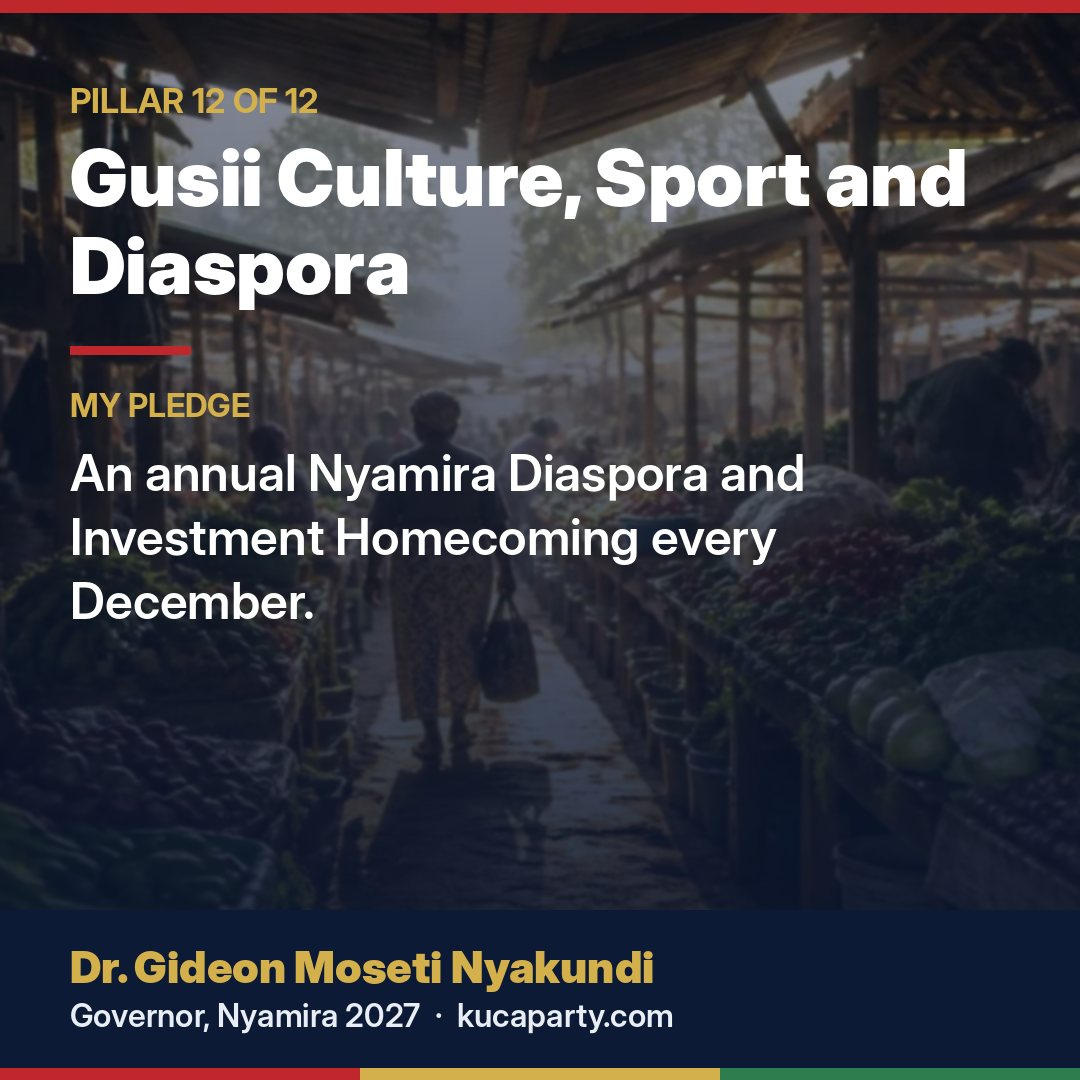
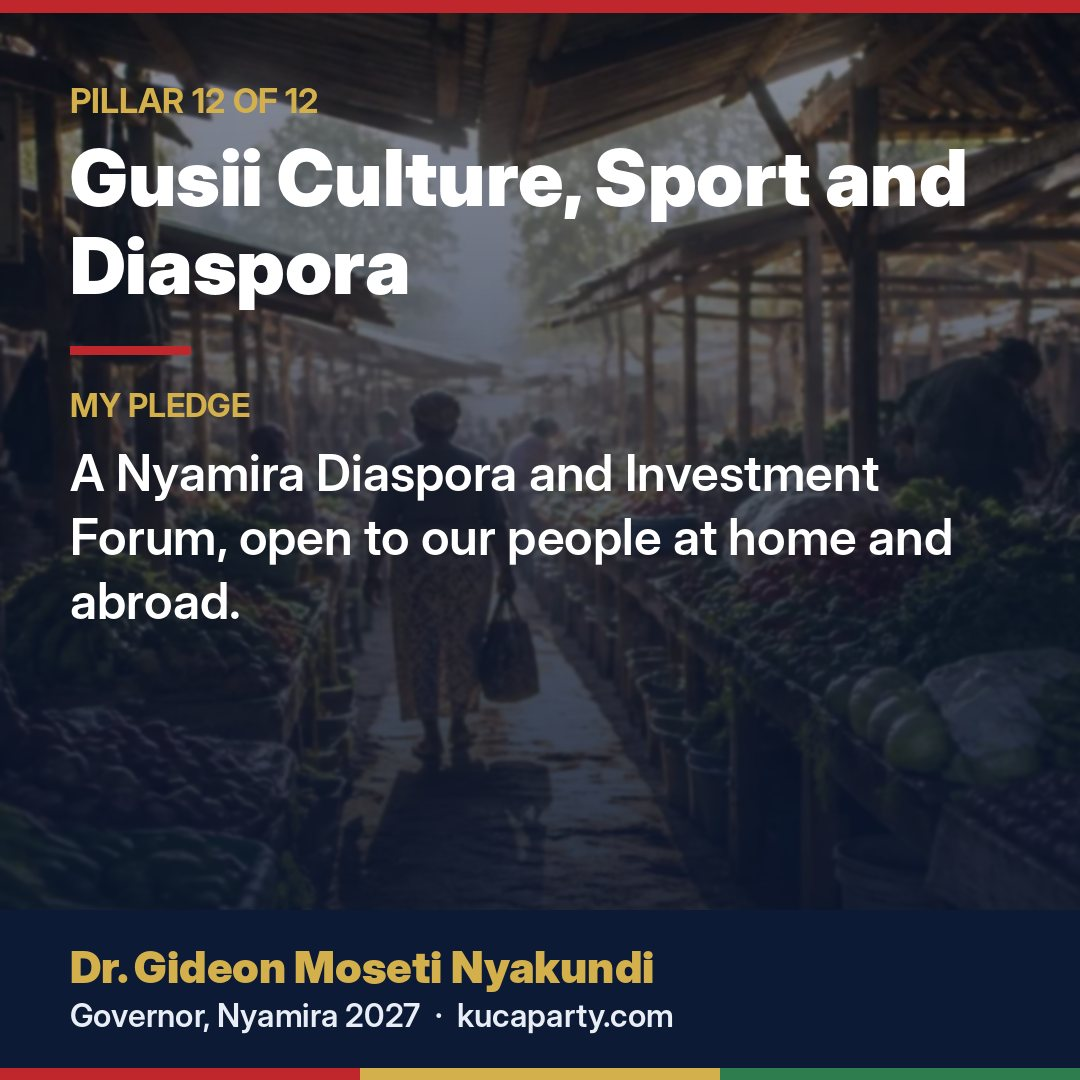
Remove December and Homecoming: ward coordinators ready during 2027; Pillar 12 pledge is a Diaspora and Investment Forum
Claude-Session: https://claude.ai/code/session_01FUmCbVnu5gycXsnKe6Gsgb

Changed region(s): [[0.0611, 0.3972, 0.8861, 0.5806]]

diff --git a/index.html b/index.html
@@ -860,7 +860,7 @@ a[href*="verify.iebc.or.ke"]:hover{color:#fff!important;background:#c0272d}
       <a class="sact" href="#volunteer"><b data-sw="Jitolee">Volunteer</b><span data-sw="Saidia katika wadi yako">Help in your ward</span></a>
       <a class="sact" href="#agents"><b data-sw="Kuwa wakala">Be a polling agent</b><span data-sw="Linda kura katika kituo chako">Protect the vote at your station</span></a>
     </div>
-    <div class="stiles"><a class="stile" href="#p1"><b>01</b><span data-sw="Healthcare360 Nyamira">Healthcare360 Nyamira</span><small data-sw="Hakuna mgonjwa katika kituo cha kaunti atakayeambiwa anunue dawa za msingi mahali pengine.">No patient in a county facility will be told to buy basic medicines elsewhere.</small></a><a class="stile" href="#p2"><b>02</b><span data-sw="Barabara Zinazodumu">Roads That Last</span><small data-sw="Kila mkataba wa barabara, gharama yake na maendeleo yake vitawekwa mtandaoni na kwenye ubao wa matangazo wa wadi.">Every road contract, its cost and its progress posted online and on the ward notice board.</small></a><a class="stile" href="#p3"><b>03</b><span data-sw="Maji Safi kwa Kila Nyumba">Clean Water for Every Home</span><small data-sw="Upatikanaji wa maji safi kuongezeka kila mwaka, na takwimu kuchapishwa.">Safe water access raised every year, and the figure published.</small></a><a class="stile" href="#p4"><b>04</b><span data-sw="Kilimo Chenye Faida">Farming That Pays</span><small data-sw="Kituo cha kusindika au kukusanya mazao katika kila eneo bunge ndani ya muhula wa kwanza.">An agro-processing or aggregation centre in each constituency within the first term.</small></a><a class="stile" href="#p5"><b>05</b><span data-sw="Ajira na Biashara kwa Vijana">Youth Jobs and Enterprise</span><small data-sw="Ripoti ya umma kila mwaka ya kila kijana aliyefunzwa, kuajiriwa au kufadhiliwa, wadi kwa wadi.">A public yearly report of every young person trained, placed or funded, ward by ward.</small></a><a class="stile" href="#p6"><b>06</b><span data-sw="Elimu na Ujuzi">Education and Skills</span><small data-sw="Orodha ya kila basari kuchapishwa kwa kila wadi, kila mwaka.">Every bursary list published by ward, every year.</small></a><a class="stile" href="#p7"><b>07</b><span data-sw="Pesa Safi, Vitabu Wazi">Clean Money, Open Books</span><small data-sw="Kadi ya matokeo ya Gavana kwa umma kila robo mwaka: pesa zilizoingia, zilizotumika, na miradi iliyokamilika.">A public Governor&#x27;s scorecard every quarter: money in, money out, projects done.</small></a><a class="stile" href="#p8"><b>08</b><span data-sw="Wanawake, Familia na Malezi">Women, Families and Care</span><small data-sw="Vikundi vya wanawake na vijana kupata sehemu yao ya kisheria ya zabuni za kaunti, na matokeo kuchapishwa.">Women and youth groups get their legal share of county tenders, and the results are published.</small></a><a class="stile" href="#p9"><b>09</b><span data-sw="Kaunti Salama na Iliyo Tayari">Safe and Ready County</span><small data-sw="Mpango wa dharura wa kaunti uliojaribiwa ndani ya mwaka wa kwanza ofisini.">A tested county emergency plan within the first year in office.</small></a><a class="stile" href="#p10"><b>10</b><span data-sw="Ardhi, Tabianchi na Nishati">Land, Climate and Energy</span><small data-sw="Fedha za tabianchi kutumika waziwazi, wadi kwa wadi, chini ya usimamizi wa jamii.">Climate funds spent in the open, ward by ward, with community oversight.</small></a><a class="stile" href="#p11"><b>11</b><span data-sw="Masoko, Miji na Uwekezaji">Markets, Towns and Investment</span><small data-sw="Wafanyabiashara kushauriwa kabla soko lolote halijabadilishwa au kuhamishwa.">Traders consulted before any market is redesigned or moved.</small></a><a class="stile" href="#p12"><b>12</b><span data-sw="Utamaduni wa Kigusii, Michezo na Diaspora">Gusii Culture, Sport and Diaspora</span><small data-sw="Kongamano la Diaspora na Uwekezaji la Nyamira kila Desemba.">A Nyamira Diaspora and Investment Homecoming every December.</small></a></div>
+    <div class="stiles"><a class="stile" href="#p1"><b>01</b><span data-sw="Healthcare360 Nyamira">Healthcare360 Nyamira</span><small data-sw="Hakuna mgonjwa katika kituo cha kaunti atakayeambiwa anunue dawa za msingi mahali pengine.">No patient in a county facility will be told to buy basic medicines elsewhere.</small></a><a class="stile" href="#p2"><b>02</b><span data-sw="Barabara Zinazodumu">Roads That Last</span><small data-sw="Kila mkataba wa barabara, gharama yake na maendeleo yake vitawekwa mtandaoni na kwenye ubao wa matangazo wa wadi.">Every road contract, its cost and its progress posted online and on the ward notice board.</small></a><a class="stile" href="#p3"><b>03</b><span data-sw="Maji Safi kwa Kila Nyumba">Clean Water for Every Home</span><small data-sw="Upatikanaji wa maji safi kuongezeka kila mwaka, na takwimu kuchapishwa.">Safe water access raised every year, and the figure published.</small></a><a class="stile" href="#p4"><b>04</b><span data-sw="Kilimo Chenye Faida">Farming That Pays</span><small data-sw="Kituo cha kusindika au kukusanya mazao katika kila eneo bunge ndani ya muhula wa kwanza.">An agro-processing or aggregation centre in each constituency within the first term.</small></a><a class="stile" href="#p5"><b>05</b><span data-sw="Ajira na Biashara kwa Vijana">Youth Jobs and Enterprise</span><small data-sw="Ripoti ya umma kila mwaka ya kila kijana aliyefunzwa, kuajiriwa au kufadhiliwa, wadi kwa wadi.">A public yearly report of every young person trained, placed or funded, ward by ward.</small></a><a class="stile" href="#p6"><b>06</b><span data-sw="Elimu na Ujuzi">Education and Skills</span><small data-sw="Orodha ya kila basari kuchapishwa kwa kila wadi, kila mwaka.">Every bursary list published by ward, every year.</small></a><a class="stile" href="#p7"><b>07</b><span data-sw="Pesa Safi, Vitabu Wazi">Clean Money, Open Books</span><small data-sw="Kadi ya matokeo ya Gavana kwa umma kila robo mwaka: pesa zilizoingia, zilizotumika, na miradi iliyokamilika.">A public Governor&#x27;s scorecard every quarter: money in, money out, projects done.</small></a><a class="stile" href="#p8"><b>08</b><span data-sw="Wanawake, Familia na Malezi">Women, Families and Care</span><small data-sw="Vikundi vya wanawake na vijana kupata sehemu yao ya kisheria ya zabuni za kaunti, na matokeo kuchapishwa.">Women and youth groups get their legal share of county tenders, and the results are published.</small></a><a class="stile" href="#p9"><b>09</b><span data-sw="Kaunti Salama na Iliyo Tayari">Safe and Ready County</span><small data-sw="Mpango wa dharura wa kaunti uliojaribiwa ndani ya mwaka wa kwanza ofisini.">A tested county emergency plan within the first year in office.</small></a><a class="stile" href="#p10"><b>10</b><span data-sw="Ardhi, Tabianchi na Nishati">Land, Climate and Energy</span><small data-sw="Fedha za tabianchi kutumika waziwazi, wadi kwa wadi, chini ya usimamizi wa jamii.">Climate funds spent in the open, ward by ward, with community oversight.</small></a><a class="stile" href="#p11"><b>11</b><span data-sw="Masoko, Miji na Uwekezaji">Markets, Towns and Investment</span><small data-sw="Wafanyabiashara kushauriwa kabla soko lolote halijabadilishwa au kuhamishwa.">Traders consulted before any market is redesigned or moved.</small></a><a class="stile" href="#p12"><b>12</b><span data-sw="Utamaduni wa Kigusii, Michezo na Diaspora">Gusii Culture, Sport and Diaspora</span><small data-sw="Kongamano la Diaspora na Uwekezaji la Nyamira, wazi kwa watu wetu nyumbani na ughaibuni.">A Nyamira Diaspora and Investment Forum, open to our people at home and abroad.</small></a></div>
     <p class="slinks"><a href="#youth" data-sw="Mpango wa Vijana &rarr;">The Youth Deal &rarr;</a><a href="#scorecard" data-sw="Kadi ya matokeo ya Gavana &rarr;">The Governor's scorecard &rarr;</a><a href="#kenya" data-sw="Kwa nini Nyamira ni muhimu kwa Kenya &rarr;">Why Nyamira matters to Kenya &rarr;</a><a href="#diaspora" data-sw="Diaspora &rarr;">Diaspora &rarr;</a></p>
   </div>
 </section>
@@ -1674,7 +1674,7 @@ a[href*="verify.iebc.or.ke"]:hover{color:#fff!important;background:#c0272d}
 <section class="page pillar dark photo split nopic" id="p12" data-bg="img/markets.webp">
   <div class="wrap">
     <div class="ph"><span class="big">12</span><div class="head" style="margin:0"><span class="pagenum">Pillar Twelve</span><h2 data-sw="Utamaduni wa Kigusii, Michezo na Diaspora">Gusii Culture, Sport and Diaspora</h2><p class="lede">Proud of where we come from, connected to where our people have gone.</p></div></div>
-    <div class="in30"><p class="in30-h" data-sw="Kwa sekunde 30">In 30 seconds</p><p data-sw="Kituo cha Urithi wa Kigusii, sherehe za kitamaduni na uchumi wa ubunifu, michezo katika kila wadi, na Ofisi ya Diaspora ya Nyamira.">A Gusii Heritage Centre, festivals and the creative economy, sport in every ward, and a Nyamira Diaspora Office.</p><p class="in30-p"><b data-sw="Ahadi:">Pledge:</b> <span data-sw="Kongamano la Diaspora na Uwekezaji la Nyamira kila Desemba.">A Nyamira Diaspora and Investment Homecoming every December.</span></p><div class="in30-a"><button type="button" class="btn red sm pshare" data-card="img/pledge/pillar-12.jpg" data-title="Gusii Culture, Sport and Diaspora" data-pledge="A Nyamira Diaspora and Investment Homecoming every December." data-sw="Shiriki ahadi hii">Share this pledge</button><button type="button" class="btn ghost sm pmore" aria-expanded="false" data-sw="Soma mpango kamili">Read the full plan</button></div></div>
+    <div class="in30"><p class="in30-h" data-sw="Kwa sekunde 30">In 30 seconds</p><p data-sw="Kituo cha Urithi wa Kigusii, sherehe za kitamaduni na uchumi wa ubunifu, michezo katika kila wadi, na Ofisi ya Diaspora ya Nyamira.">A Gusii Heritage Centre, festivals and the creative economy, sport in every ward, and a Nyamira Diaspora Office.</p><p class="in30-p"><b data-sw="Ahadi:">Pledge:</b> <span data-sw="Kongamano la Diaspora na Uwekezaji la Nyamira, wazi kwa watu wetu nyumbani na ughaibuni.">A Nyamira Diaspora and Investment Forum, open to our people at home and abroad.</span></p><div class="in30-a"><button type="button" class="btn red sm pshare" data-card="img/pledge/pillar-12.jpg" data-title="Gusii Culture, Sport and Diaspora" data-pledge="A Nyamira Diaspora and Investment Forum, open to our people at home and abroad." data-sw="Shiriki ahadi hii">Share this pledge</button><button type="button" class="btn ghost sm pmore" aria-expanded="false" data-sw="Soma mpango kamili">Read the full plan</button></div></div>
     <div class="cols pfull" hidden>
       <div class="problem">
         <h4>The challenge</h4>
@@ -1693,7 +1693,7 @@ a[href*="verify.iebc.or.ke"]:hover{color:#fff!important;background:#c0272d}
           <li><b>A Nyamira Diaspora Office</b> for investment, skills transfer, medical missions and support to families at home.</li>
           <li><b>Elders' councils</b> involved in peace-building and community dispute resolution.</li>
         </ol>
-        <p class="pledge">Pledge: an annual Nyamira Diaspora and Investment Homecoming every December.</p>
+        <p class="pledge">Pledge: a Nyamira Diaspora and Investment Forum, open to our people at home and abroad.</p>
       </div>
     </div>
   </div>
@@ -1941,7 +1941,7 @@ a[href*="verify.iebc.or.ke"]:hover{color:#fff!important;background:#c0272d}
       </div>
       <div class="contact card">
         <p class="eyebrow">Ward coordinators</p>
-        <p style="font-weight:600">Coordinators will be named for all 20 wards during the December homecoming tour.</p>
+        <p style="font-weight:600">Coordinators for all 20 wards will be ready during 2027.</p>
         <p class="muted" style="font-size:.95rem">Sign up as a volunteer and your ward coordinator will call you.</p>
       </div>
     </div>
